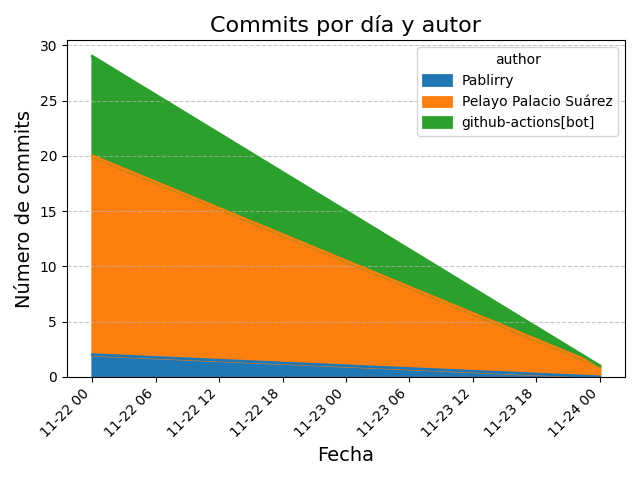
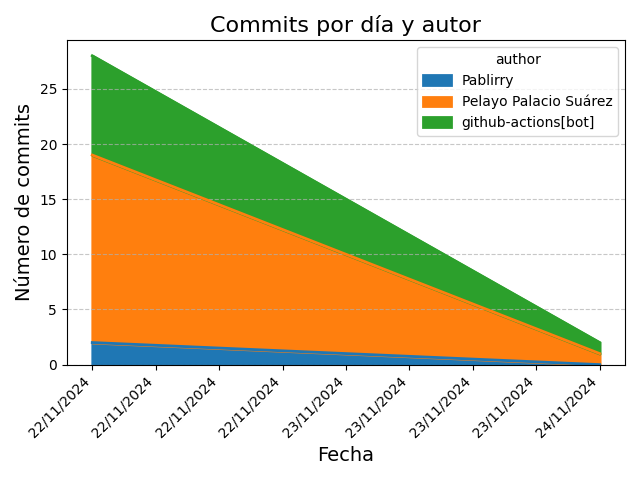
update test

diff --git a/generate_commit_graph.py b/generate_commit_graph.py
@@ -19,10 +19,10 @@ data = [(commit['commit']['author']['date'], commit['commit']['author']['name'])
 
 # Convierte los datos a un DataFrame de pandas
 df = pd.DataFrame(data, columns=['date', 'author'])
-df['date'] = pd.to_datetime(df['date'])
+df['date'] = pd.to_datetime(df['date']).dt.date
 
-# Cuenta los commits por día y por autor, y selecciona los últimos 7 días
-commits_per_day_author = df.groupby([df['date'].dt.date, 'author']).size().unstack(fill_value=0).tail(7)
+# Cuenta los commits por día y por autor
+commits_per_day_author = df.groupby(['date', 'author']).size().unstack(fill_value=0)
 
 # Elimina el archivo de la gráfica de commits si existe
 if os.path.exists('commit_graph.png'):
@@ -35,6 +35,7 @@ plt.title('Commits por día y autor', fontsize=16)
 plt.xlabel('Fecha', fontsize=14)
 plt.ylabel('Número de commits', fontsize=14)
 plt.xticks(rotation=45, ha='right')  # Rotar las etiquetas de fecha 45 grados y alinearlas a la derecha
+plt.gca().xaxis.set_major_formatter(plt.matplotlib.dates.DateFormatter('%d/%m/%Y'))
 plt.grid(axis='y', linestyle='--', alpha=0.7)
 plt.tight_layout()
 plt.savefig('commit_graph.png')
